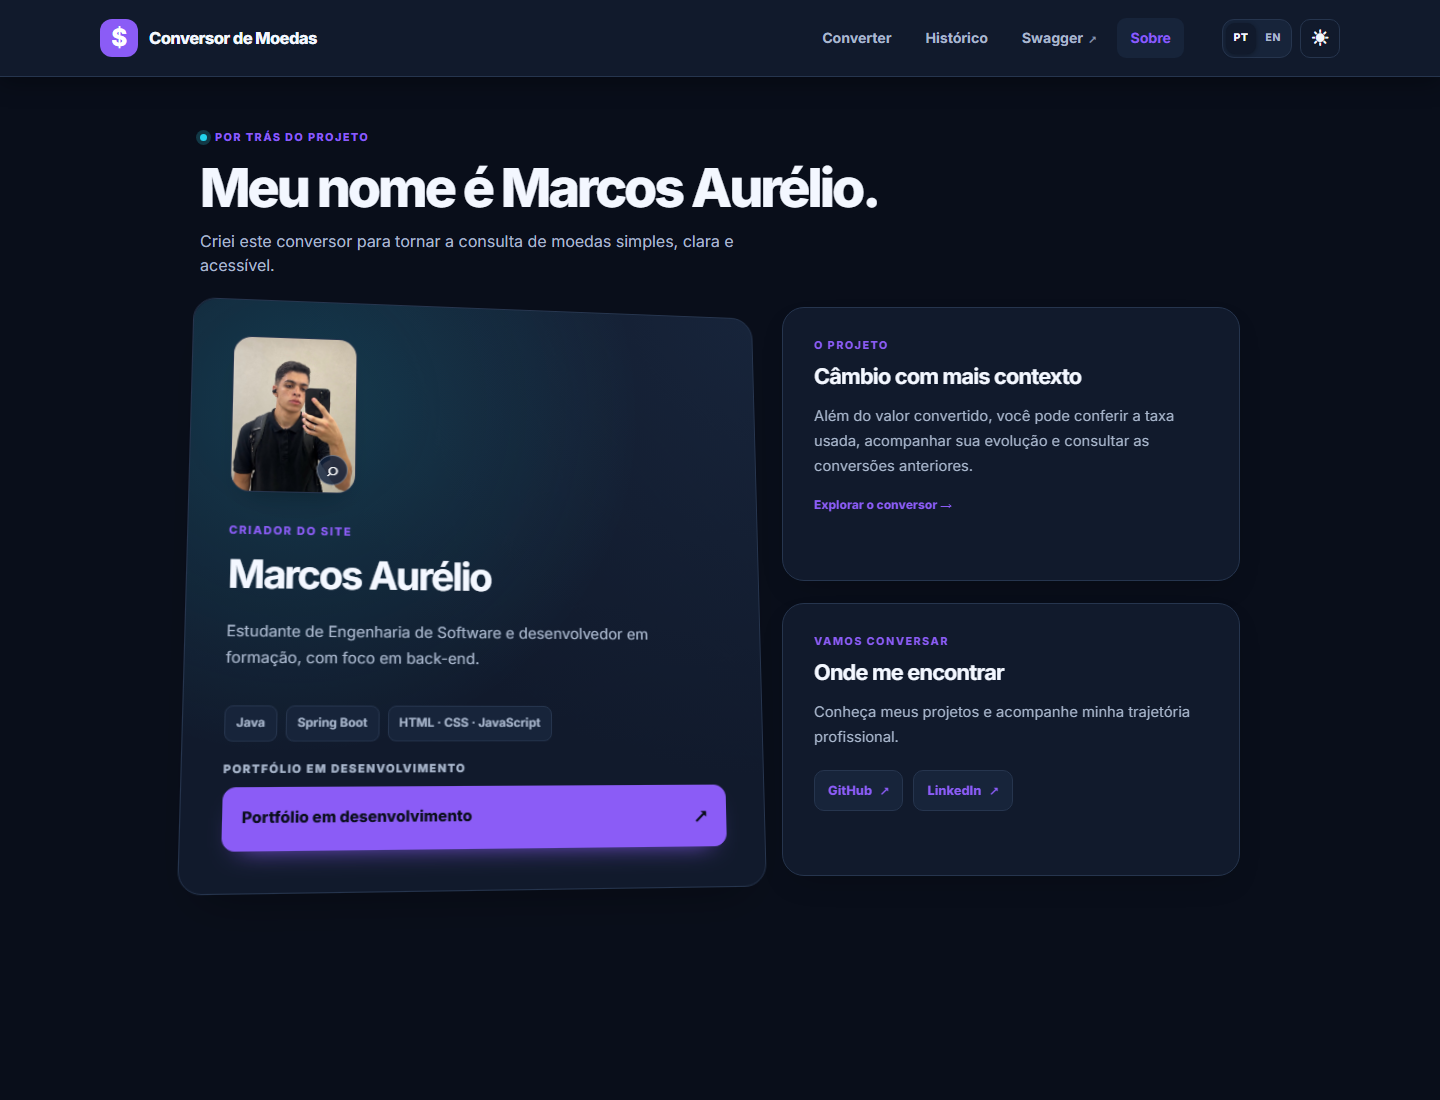
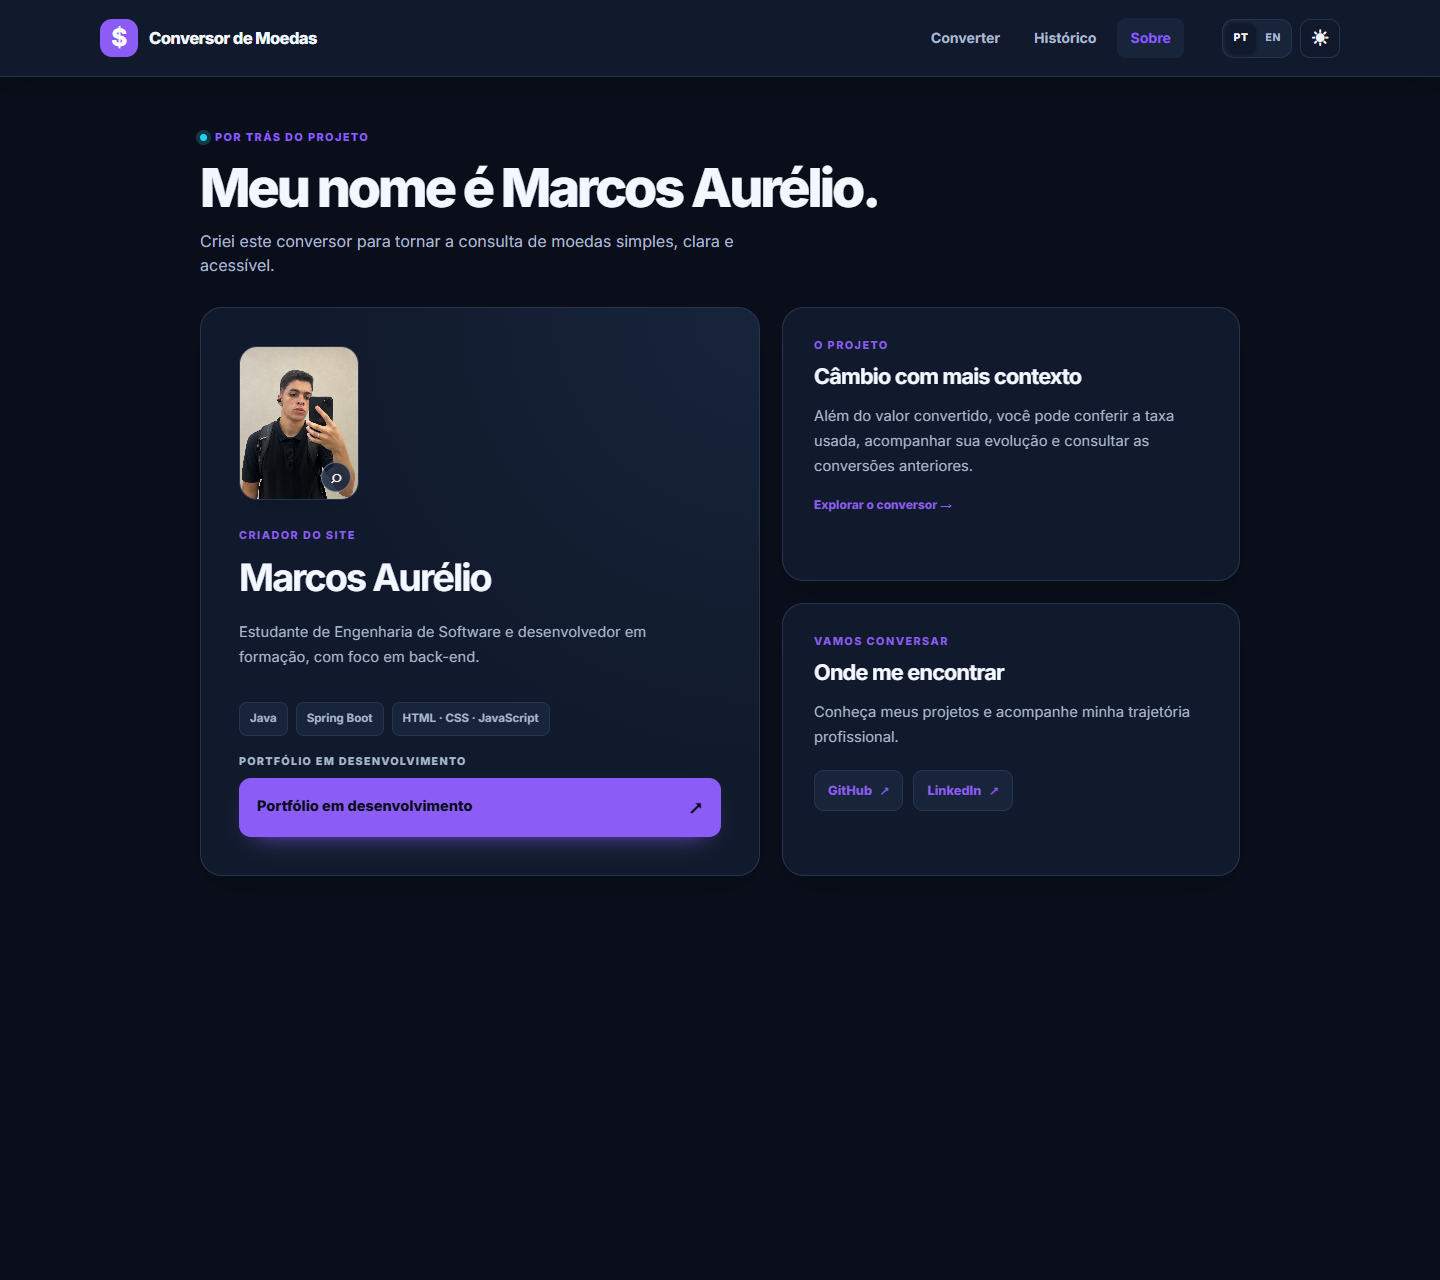
docs: refresh README and screenshots

diff --git a/README.md b/README.md
@@ -1,43 +1,39 @@
 # Conversor de Moedas
 
-Conversor de moedas com histórico e gráfico de cotações de referência. O resultado mostra a taxa usada e a data da cotação. O repositório mantém a aplicação Java original e uma versão estática para publicar no Cloudflare Pages.
+Converta moedas e acompanhe cotações de referência, gráficos e conversões recentes.
 
-## Versões
+**[Abrir a aplicação publicada](https://conversor-de-moedas.pages.dev/)**
 
-### Aplicação Java
+Este repositório mantém a versão estática publicada no Cloudflare Pages e a aplicação Java com Spring Boot.
 
-O projeto original foi criado como portfólio de back-end Java. A aplicação usa Spring Boot, páginas Thymeleaf, API REST e Spring Data JPA. O perfil local usa H2; o perfil `prod` usa PostgreSQL. O histórico da aplicação Java é separado por sessão.
+## Capturas de tela
 
-### Cloudflare Pages
+As imagens mostram as páginas atuais do site publicado nos temas claro e escuro. As cotações são dinâmicas; o histórico depende das conversões feitas no navegador.
 
-A versão Pages usa HTML, CSS e JavaScript. O navegador consulta a [API pública Frankfurter](https://frankfurter.dev/) e guarda o histórico no `localStorage`. Esse histórico fica neste navegador, não sincroniza entre dispositivos e pode ser apagado junto com os dados do site. O Pages publica os arquivos estáticos; a API REST, o Swagger e o banco da aplicação Java não fazem parte dessa versão.
+| Tela | Tema claro | Tema escuro |
+| --- | --- | --- |
+| Conversor | ![Conversor no tema claro](docs/screenshots/conversor-claro.png) | ![Conversor no tema escuro](docs/screenshots/conversor-escuro.png) |
+| Histórico | ![Histórico no tema claro](docs/screenshots/historico-claro.png) | ![Histórico no tema escuro](docs/screenshots/historico-escuro.png) |
+| Sobre | ![Página Sobre no tema claro](docs/screenshots/sobre-claro.png) | ![Página Sobre no tema escuro](docs/screenshots/sobre-escuro.png) |
 
-O diretório publicado é gerado por `npm run build:pages`. A configuração do projeto está em [docs/DEPLOY_CLOUDFLARE_PAGES.md](docs/DEPLOY_CLOUDFLARE_PAGES.md).
+## O que a versão publicada oferece
 
-## Telas
+- Conversão entre BRL, USD, EUR, GBP, JPY, CAD, ARS e CNY.
+- Cotação atual, cotação inversa e gráfico para períodos de 7, 30 ou 90 dias.
+- Histórico de conversões salvo no armazenamento local do navegador. Os dados não sincronizam entre dispositivos.
+- Interface em português ou inglês, com tema claro ou escuro.
+- Página Sobre com informações do projeto e do autor.
 
-| Tema claro | Tema escuro |
+As cotações vêm da [API pública Frankfurter](https://frankfurter.dev/) e são valores de referência. Podem diferir das taxas oferecidas por instituições financeiras.
+
+## Duas versões no repositório
+
+| Versão | Características |
 | --- | --- |
-| ![Dashboard no tema claro](docs/screenshots/tema-claro.png) | ![Dashboard no tema escuro](docs/screenshots/tema-escuro.png) |
+| [Cloudflare Pages](https://conversor-de-moedas.pages.dev/) | Site estático em HTML, CSS e JavaScript. Consulta as cotações no navegador e salva o histórico no `localStorage`. Não inclui a API REST, o Swagger nem o banco da aplicação Java. |
+| Aplicação Java | Spring Boot, páginas Thymeleaf, API REST e Spring Data JPA. O perfil local usa H2; o perfil `prod` usa PostgreSQL. O histórico é separado por sessão. |
 
-Capturas feitas em 24/09/2026 com a aplicação local. Os dois temas mostram a mesma cotação de referência consultada nessa data; os valores podem mudar durante o uso.
-
-### Página Sobre
-
-| Tema claro | Tema escuro |
-| --- | --- |
-| ![Página Sobre no tema claro](docs/screenshots/sobre-claro.png) | ![Página Sobre no tema escuro](docs/screenshots/sobre-escuro.png) |
-
-Na página Sobre, o título "Meu nome é Marcos Aurélio." apresenta o autor do projeto. As capturas mostram um card inclinado e o foco de luz ativado pelo ponteiro. Os três cards respondem a esse movimento, com uma inclinação mais suave no maior. O efeito fica desligado em dispositivos sem ponteiro preciso e quando o sistema pede movimento reduzido.
-
-## Funcionalidades
-
-- Converter valores entre BRL, USD, EUR, GBP, JPY, CAD, ARS e CNY.
-- Consultar o gráfico de cotações dos últimos 7, 30 ou 90 dias e abrir a tabela com os valores.
-- Ver conversões recentes no dashboard e o histórico completo na página Histórico.
-- Escolher português ou inglês e alternar entre os temas claro e escuro. As escolhas ficam salvas no navegador.
-- Consultar a API Java pelo Swagger.
-- Conhecer o autor e seus contatos na página Sobre.
+Na aplicação Java, a sessão anônima expira após 30 minutos de inatividade. O histórico mantém até 100 conversões por sessão e a retenção padrão em produção é de 30 dias, configurável por `HISTORY_RETENTION_DAYS`. Não há contas de usuário.
 
 ## Executar a aplicação Java
 
@@ -47,91 +43,53 @@ Na página Sobre, o título "Meu nome é Marcos Aurélio." apresenta o autor do 
 .\mvnw.cmd spring-boot:run
 ```
 
-No macOS ou Linux, use `./mvnw spring-boot:run`.
+No macOS ou Linux:
 
-| Página | Endereço |
+```sh
+./mvnw spring-boot:run
+```
+
+| Página | Endereço local |
 | --- | --- |
 | Conversor | http://localhost:8080/ |
 | Histórico | http://localhost:8080/historico |
 | Sobre | http://localhost:8080/sobre |
-| Swagger | http://localhost:8080/swagger-ui.html |
+| Swagger da API Java | http://localhost:8080/swagger-ui.html |
 
-O perfil local se vincula somente a `127.0.0.1` e usa H2 em memória. Cada navegador recebe um histórico separado; os dados locais são apagados quando o processo termina. O console H2 não é incluído na aplicação.
+O perfil local usa H2 em memória e se vincula somente a `127.0.0.1`. Os dados locais são apagados quando a aplicação termina.
 
-## API da aplicação Java
+## API REST da aplicação Java
 
 | Método | Rota | Descrição |
 | --- | --- | --- |
-| `POST` | `/api/conversoes` | Converte um valor e salva a operação no histórico |
-| `GET` | `/api/conversoes/historico` | Lista as conversões salvas |
-| `DELETE` | `/api/conversoes/historico` | Limpa o histórico |
+| `POST` | `/api/conversoes` | Converte um valor e salva a operação no histórico da sessão |
+| `GET` | `/api/conversoes/historico` | Lista as conversões da sessão |
+| `DELETE` | `/api/conversoes/historico` | Limpa o histórico da sessão |
 | `GET` | `/api/cotacoes/historico?origem=BRL&destino=USD&dias=7` | Consulta as cotações usadas pelo gráfico |
 
-O parâmetro `dias` aceita `7`, `30` ou `90`. Os endpoints de histórico mostram e limpam apenas os dados da sessão atual. Chamadas `POST` e `DELETE` exigem CSRF: primeiro consulte `GET /api/security/csrf`, mantenha o cookie de sessão retornado e envie o token no cabeçalho indicado por `headerName` na resposta. Exemplo:
+O parâmetro `dias` aceita `7`, `30` ou `90`. As operações `POST` e `DELETE` exigem CSRF: consulte primeiro `GET /api/security/csrf`, mantenha o cookie de sessão e envie o token no cabeçalho indicado por `headerName` na resposta. Esses endpoints pertencem à aplicação Java e não estão disponíveis na versão Pages.
 
-```http
-GET /api/security/csrf
+## Publicar
+
+- **Cloudflare Pages:** configure o comando `npm run build:pages` e o diretório de saída `cloudflare-pages/site`. O build usa os arquivos de `cloudflare-pages/content` e os recursos compartilhados da aplicação Java. Consulte o [guia de publicação](docs/DEPLOY_CLOUDFLARE_PAGES.md).
+- **Docker Compose:** a stack Java usa Caddy para HTTPS, Nginx com limites por IP e PostgreSQL em rede interna. Configure `.env` a partir de `.env.example`, use três senhas aleatórias diferentes com pelo menos 32 caracteres, defina `DOMAIN`, abra as portas TCP 80/443 e execute `docker compose up --build -d`. O volume `database_data` persiste após `docker compose down`; removê-lo apaga o banco. Faça backups criptografados fora do servidor e teste a restauração.
+- **Render:** consulte o [guia de deploy](docs/DEPLOY_RENDER.md).
+
+## Desenvolvimento e qualidade
+
+O build do Pages usa Node.js 24.21.0, definido em `.nvmrc`:
+
+```sh
+npm run build:pages
 ```
 
-Depois, mantendo o cookie de sessão:
-
-```http
-POST /api/conversoes
-Content-Type: application/json
-X-CSRF-TOKEN: <token retornado pelo endpoint CSRF>
-
-{"amount":100.00,"sourceCurrency":"BRL","targetCurrency":"USD"}
-```
-
-## Publicar no Cloudflare Pages
-
-Configure o Pages com a branch `main`, sem framework preset, comando `npm run build:pages` e diretório de saída `cloudflare-pages/site`. O build reúne as páginas de `cloudflare-pages/content` e os recursos compartilhados da aplicação Java. Veja [docs/DEPLOY_CLOUDFLARE_PAGES.md](docs/DEPLOY_CLOUDFLARE_PAGES.md) para os passos e limites do plano.
-
-## Hospedar a aplicação Java
-
-### Docker Compose
-
-O deploy com Docker Compose usa Caddy para HTTPS automático, Nginx como proxy com limites por IP, a aplicação sem porta pública e PostgreSQL em uma rede interna. Requer um servidor Linux com Docker Engine e Compose v2, um domínio apontado para o servidor e as portas TCP 80/443 abertas. Para testar localmente, use `localhost` no domínio.
-
-1. Copie `.env.example` para `.env` e substitua os três valores de senha por segredos aleatórios diferentes, com pelo menos 32 caracteres (por exemplo, execute `openssl rand -hex 32` três vezes). Restrinja o arquivo no servidor com `chmod 600 .env` e configure `DOMAIN` com o domínio real.
-2. Inicie a stack:
-
-   ```sh
-   docker compose up --build -d
-   docker compose ps
-   ```
-
-3. Acesse `https://SEU_DOMINIO`. Caddy solicita e renova os certificados TLS quando o DNS e as portas estão configurados corretamente.
-
-Somente o Caddy publica portas para a Internet. No Nginx, conversões têm limite de 10 requisições por minuto por IP (com rajada de 8), cotações têm limite de 30 por minuto (rajada de 15) e a emissão de tokens CSRF tem limite de 5 por minuto (rajada de 10). O proxy também limita tamanho e tempo de requisições.
-
-### Render
-
-Consulte [docs/DEPLOY_RENDER.md](docs/DEPLOY_RENDER.md) antes de criar os serviços. O guia configura PostgreSQL gerenciado, aplicação privada e proxy público, com credenciais separadas para a aplicação e o Flyway. Essa configuração mantém uma instância da aplicação; para escalar horizontalmente, configure sessões compartilhadas ou afinidade de sessão.
-
-Os registros ficam no volume `database_data`, com retenção padrão de 30 dias e limite de 100 conversões por sessão. A sessão anônima expira após 30 minutos de inatividade; não há contas de usuário nem recuperação de histórico depois que o cookie de sessão expira. Planeje backups criptografados fora do servidor. No Linux, uma exportação manual pode ser feita com `docker compose exec -T database pg_dump -U postgres -d currency_converter -Fc > backup.dump`; agende e teste a restauração de acordo com a infraestrutura escolhida. `docker compose down` mantém o volume de dados; remover o volume apaga o banco.
-
-Para iniciar localmente, copie `.env.example` para `.env`, mantenha `DOMAIN=localhost`, substitua os segredos de exemplo e rode os mesmos comandos. O certificado local do Caddy não é reconhecido pelo navegador automaticamente.
-
-## Tecnologias, observabilidade e testes
-
-O backend usa Java, Spring Boot, Spring Web, Spring Security, Spring Data JPA, Thymeleaf e Bean Validation. O perfil local usa H2; o perfil `prod` usa PostgreSQL com migrações Flyway. A interface usa HTML, CSS, JavaScript e SVG. Springdoc OpenAPI gera a documentação da API e fica desativado no perfil `prod`.
-
-O Actuator/OpenTelemetry e a captura de erros pelo Sentry ficam em modo local seguro por padrão. Consulte [docs/OBSERVABILITY.md](docs/OBSERVABILITY.md) para configurar OTLP, Sentry, Datadog ou New Relic.
-
-Para rodar os testes Java:
+Para executar os testes Java:
 
 ```powershell
 .\mvnw.cmd test
 ```
 
-Lint, testes unitários, testes de integração e testes de navegador rodam nos Pull Requests. Consulte [docs/QUALITY.md](docs/QUALITY.md) para os comandos locais, mutation testing, ArchUnit e envio de cobertura ao Codecov.
-
-As cotações são valores de referência e podem diferir das taxas oferecidas por instituições financeiras.
-
-## Desenvolvimento
-
-Correções, melhorias, novas funções e remediações começam por uma Issue e são entregues por Pull Request. Os passos para agentes e colaboradores estão em [AGENTS.md](AGENTS.md).
+Lint, testes unitários, testes de integração e testes de navegador rodam nos Pull Requests. Os comandos locais e a configuração de qualidade estão em [docs/QUALITY.md](docs/QUALITY.md). Para observabilidade, consulte [docs/OBSERVABILITY.md](docs/OBSERVABILITY.md).
 
 ## Autor
 
@@ -139,3 +97,5 @@ Marcos Aurélio — estudante de Engenharia de Software e desenvolvedor em forma
 
 - [GitHub](https://github.com/MarcosAAurelio)
 - [LinkedIn](https://www.linkedin.com/in/eu-marcosaurelio-dev)
+
+Correções e melhorias seguem o fluxo descrito em [AGENTS.md](AGENTS.md).
